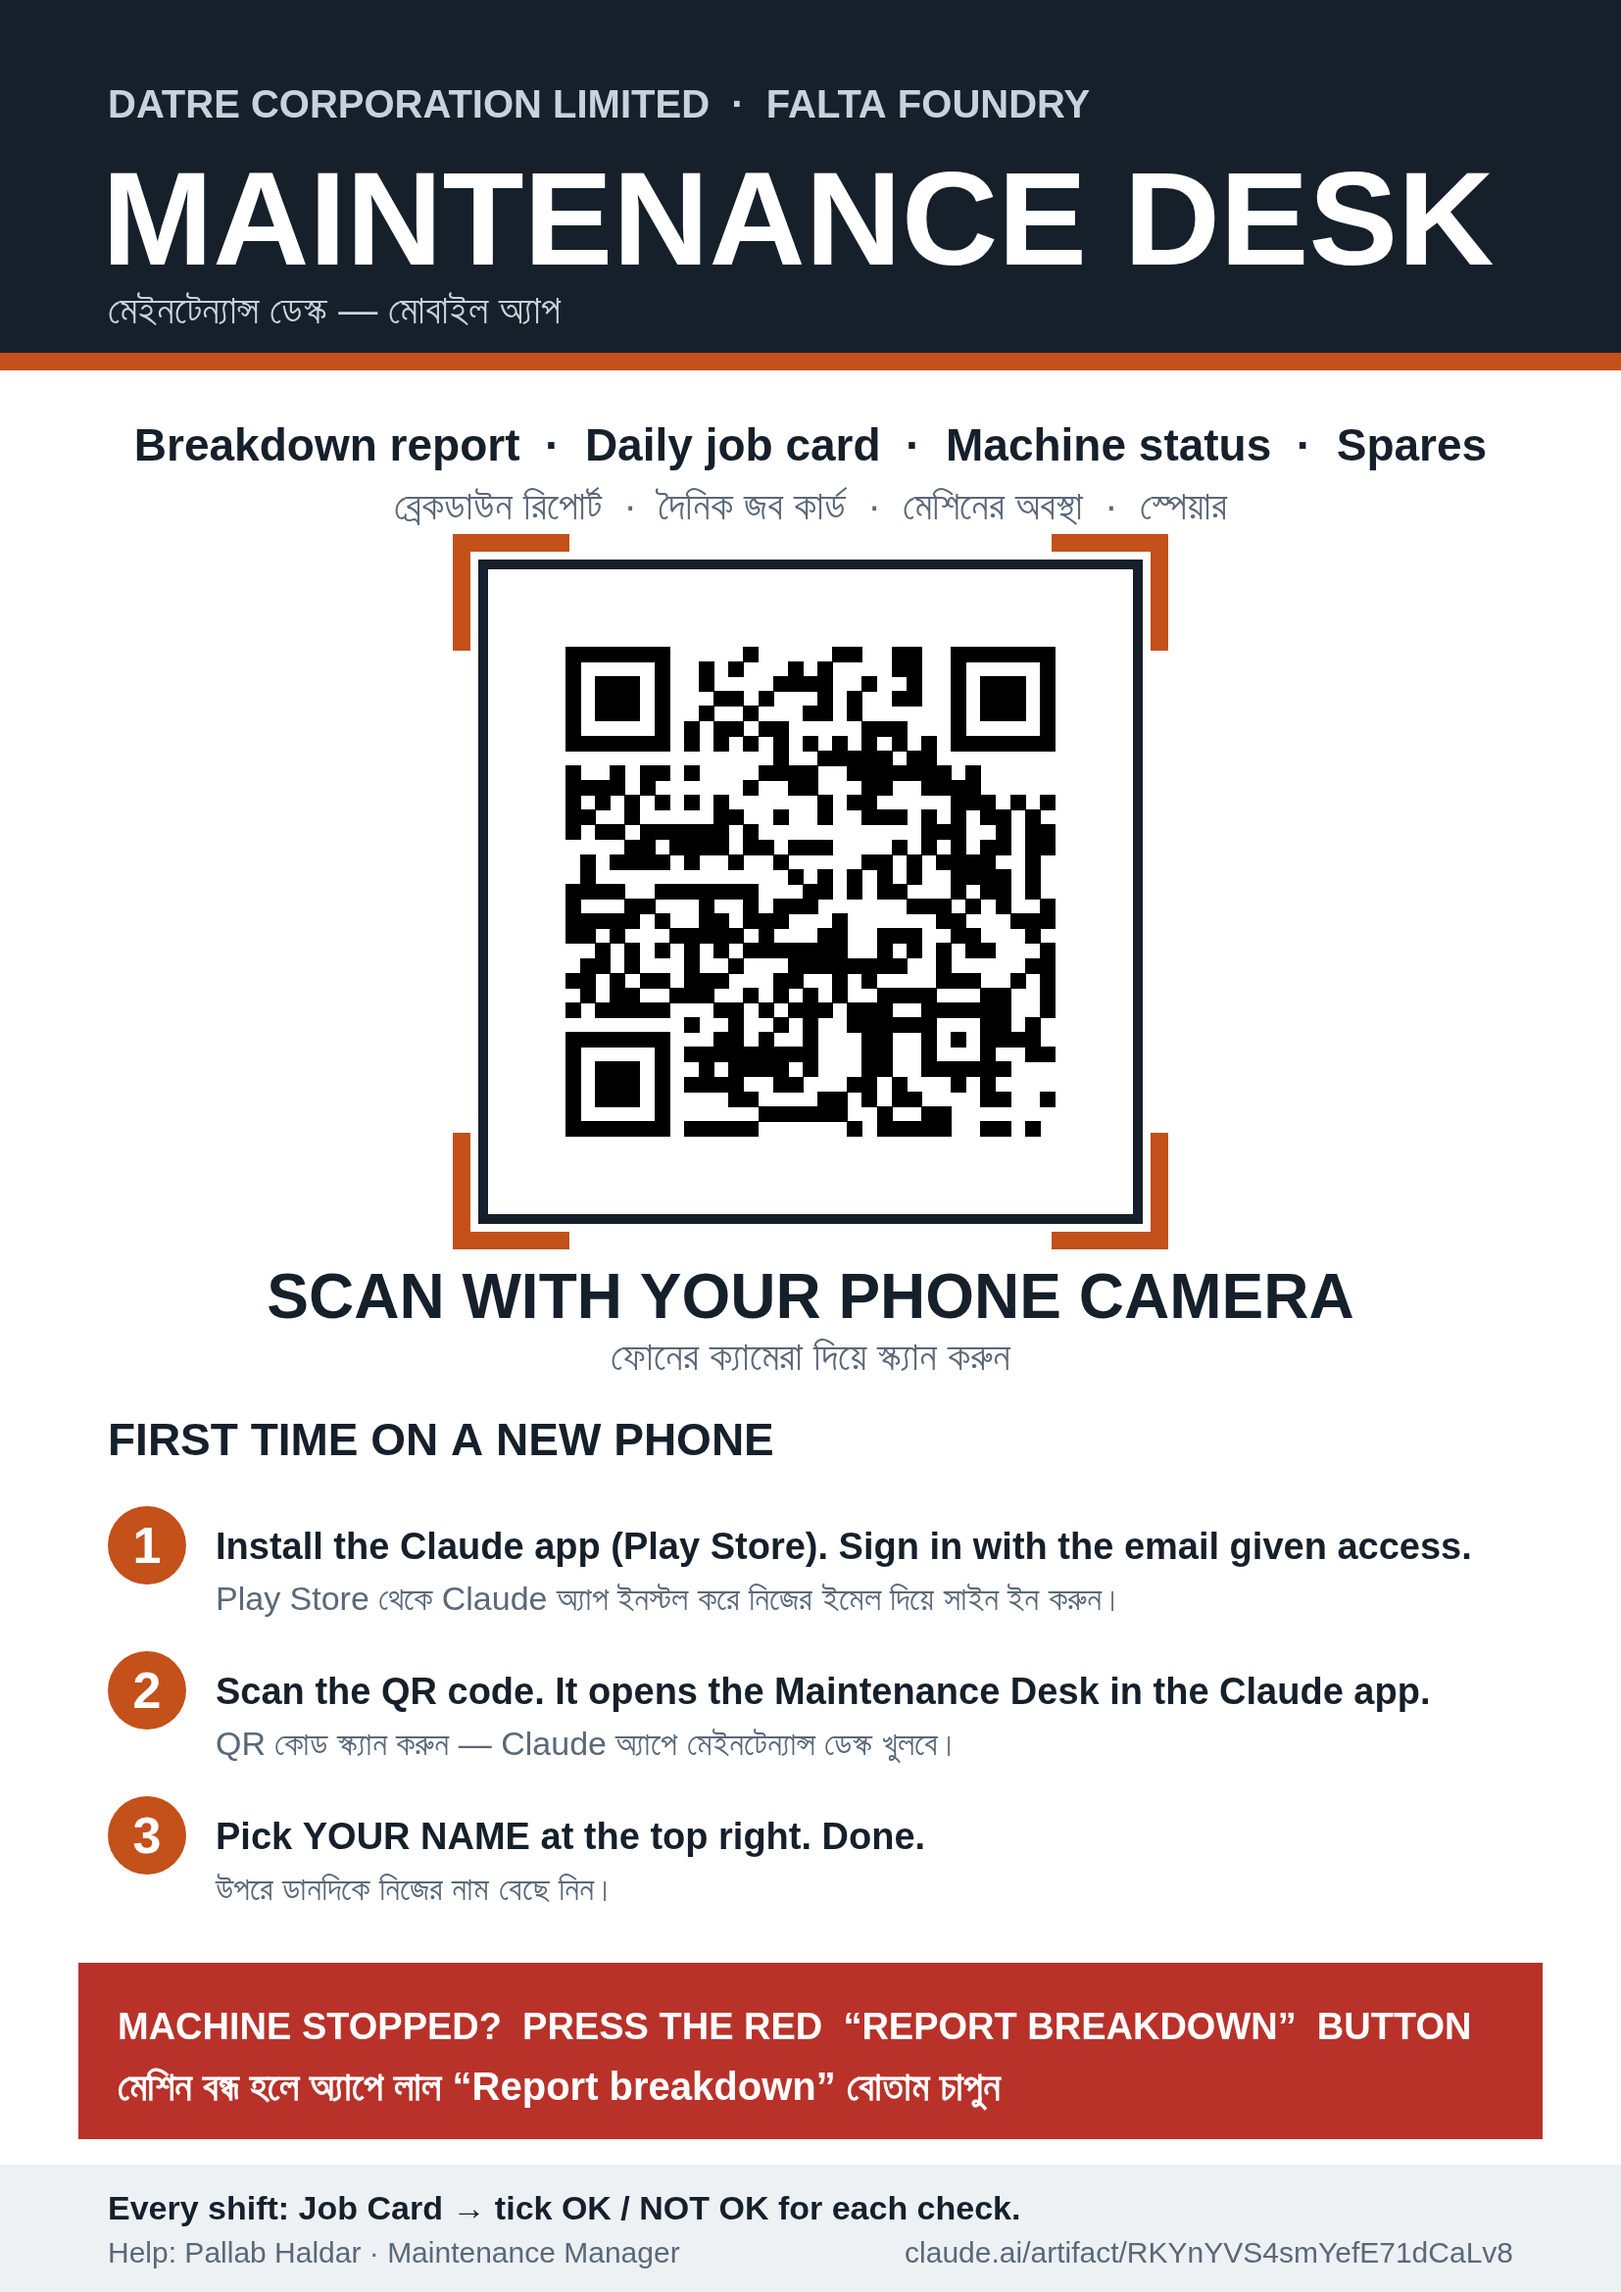
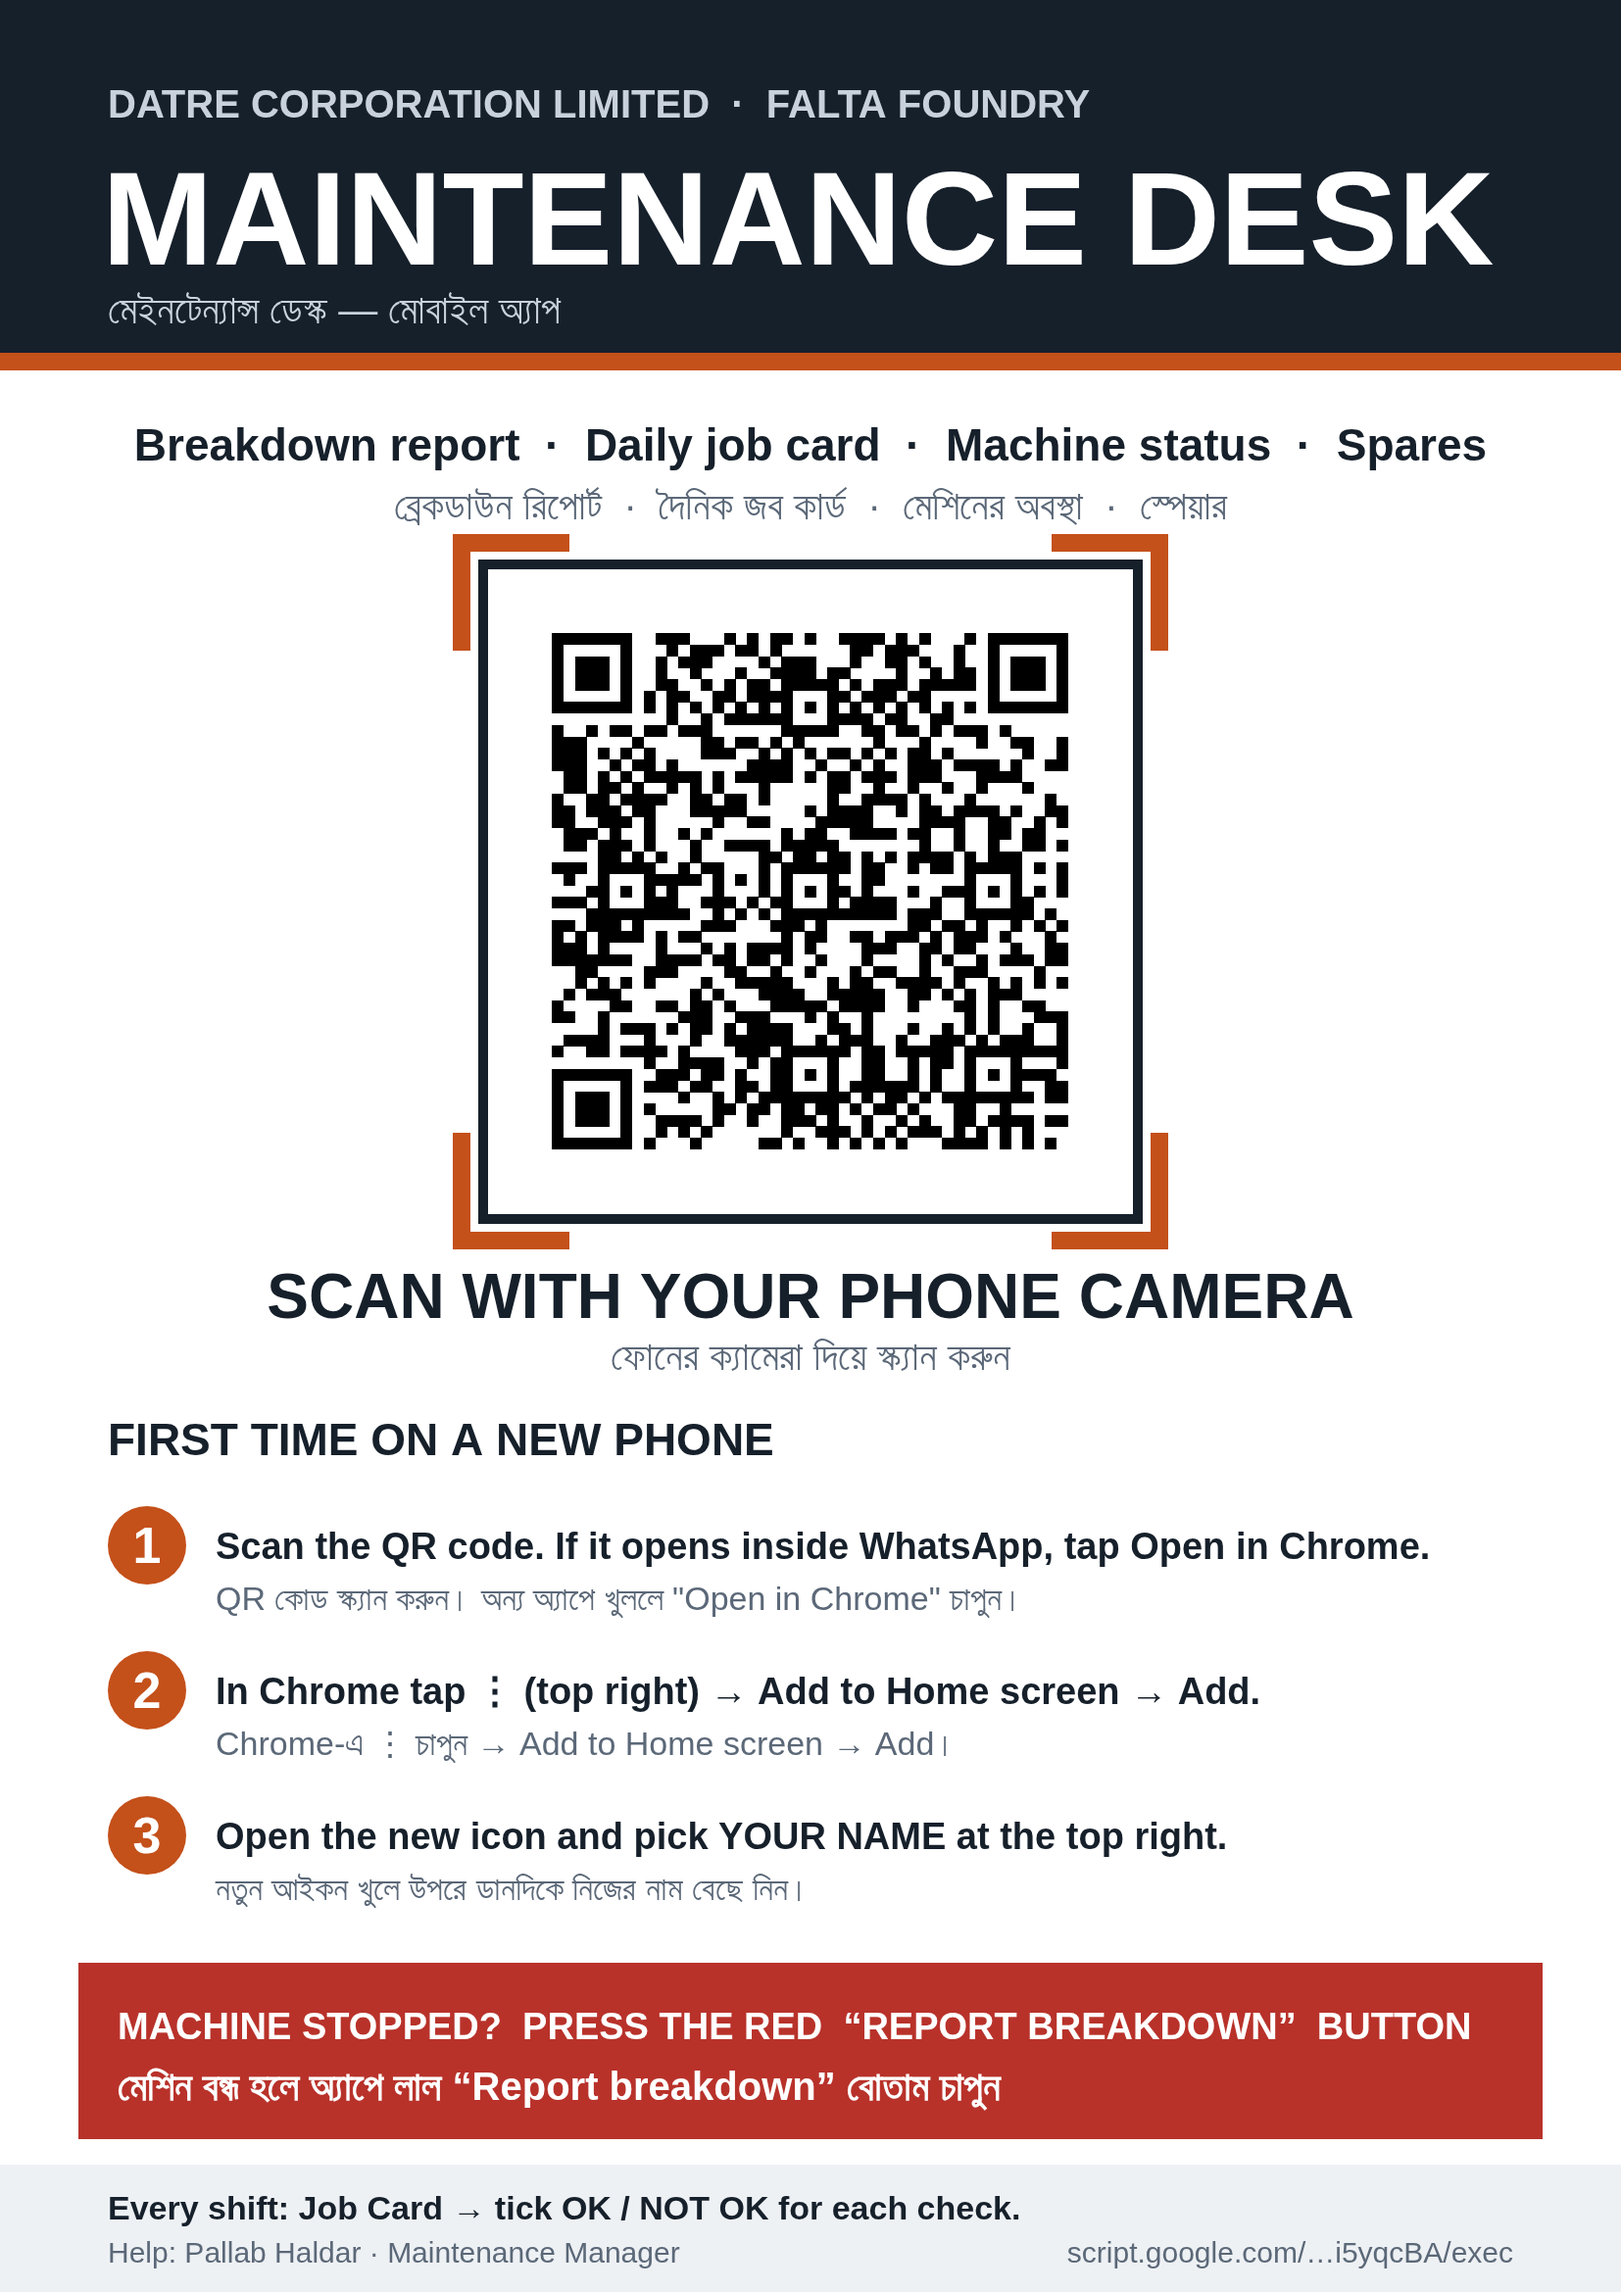
Google web-app link: QR poster, WhatsApp message, README
Claude-Session: https://claude.ai/code/session_01FLBFYur26hDgiNEE8iYGpF

Changed region(s): [[0.1233, 0.6554, 0.8942, 0.8427], [0.3392, 0.2497, 0.6784, 0.4994], [0.6167, 0.9675, 0.925, 0.9987]]

diff --git a/maintenance-app/qr-poster.html b/maintenance-app/qr-poster.html
@@ -1350,7 +1350,7 @@ function draw(){
   x.fillStyle=MUT;x.font='400 30px '+BD;x.fillText('Help: '+($('#help').value||''),110,H-30);
   x.textAlign='right';x.fillText(qr?shortUrl($('#url').value.trim()):'',W-110,H-30);x.textAlign='left';
 }
-function shortUrl(u){try{const p=new URL(u);const s=p.host+p.pathname;return s.length>58?s.slice(0,28)+'…'+s.slice(-26):s}catch(e){return''}}
+function shortUrl(u){try{const p=new URL(u);const s=p.host+p.pathname;return s.length>40?s.slice(0,18)+'…'+s.slice(-12):s}catch(e){return''}}
 function update(){const u=$('#url').value.trim();const m=$('#m');
   if(!u){qr=null;m.className='msg';m.textContent='Waiting for the link. The preview shows where the QR code will go.'}
   else if(!okUrl(u)){qr=null;m.className='msg err';m.textContent='That does not look like a full https:// link. Copy the Web app URL from Apps Script → Deploy.'}
@@ -1364,7 +1364,7 @@ $('#dlq').onclick=()=>{const k=document.createElement('canvas');k.width=k.height
 $('#pr').onclick=()=>window.print();
 $('#url').addEventListener('input',update);$('#help').addEventListener('input',update);
 $('#f').addEventListener('submit',e=>e.preventDefault());
-$('#url').value='https://claude.ai/artifact/RKYnYVS4smYefE71dCaLv8';try{const u=localStorage.getItem('dmd-qr-url');if(u)$('#url').value=u;const h=localStorage.getItem('dmd-qr-help');if(h)$('#help').value=h}catch(e){}
+$('#url').value='https://script.google.com/macros/s/AKfycbx5yCShtFjgGFcSc16IuEh3HNHyL_NCfbGsIwIDJIhocGrJp7AWp6M_XkyPpu1i5yqcBA/exec';try{const u=localStorage.getItem('dmd-qr-url');if(u)$('#url').value=u;const h=localStorage.getItem('dmd-qr-help');if(h)$('#help').value=h}catch(e){}
 update();
 if(document.fonts){Promise.all(['700 150px "Barlow Condensed"','600 40px "IBM Plex Sans"','500 40px "Noto Sans Bengali"','700 40px "Noto Sans Bengali"'].map(f=>document.fonts.load(f,f.includes('Bengali')?'মেশিন':'A').catch(()=>{}))).then(draw);document.fonts.ready.then(draw)}
 </script>

diff --git a/maintenance-app/README.md b/maintenance-app/README.md
@@ -1,5 +1,8 @@
 # Datre Maintenance Desk
 
+**Team app link (Android, no login):** https://script.google.com/macros/s/AKfycbx5yCShtFjgGFcSc16IuEh3HNHyL_NCfbGsIwIDJIhocGrJp7AWp6M_XkyPpu1i5yqcBA/exec
+
+
 A single-file maintenance app for the Falta foundry. It needs no ChatGPT/Claude
 and no installation. Open `index.html` in Chrome on a phone or PC.
 
